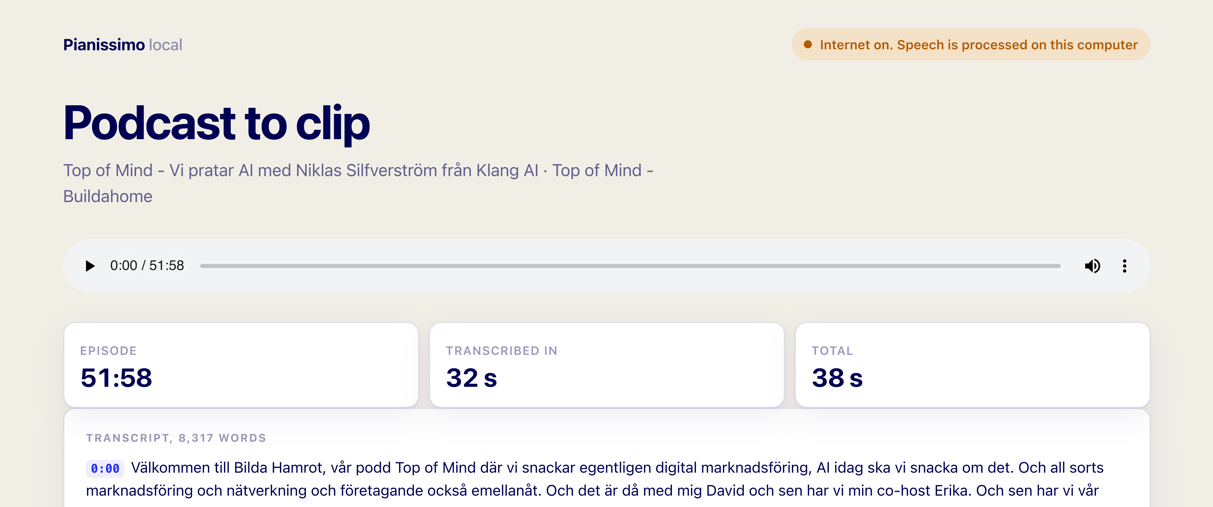
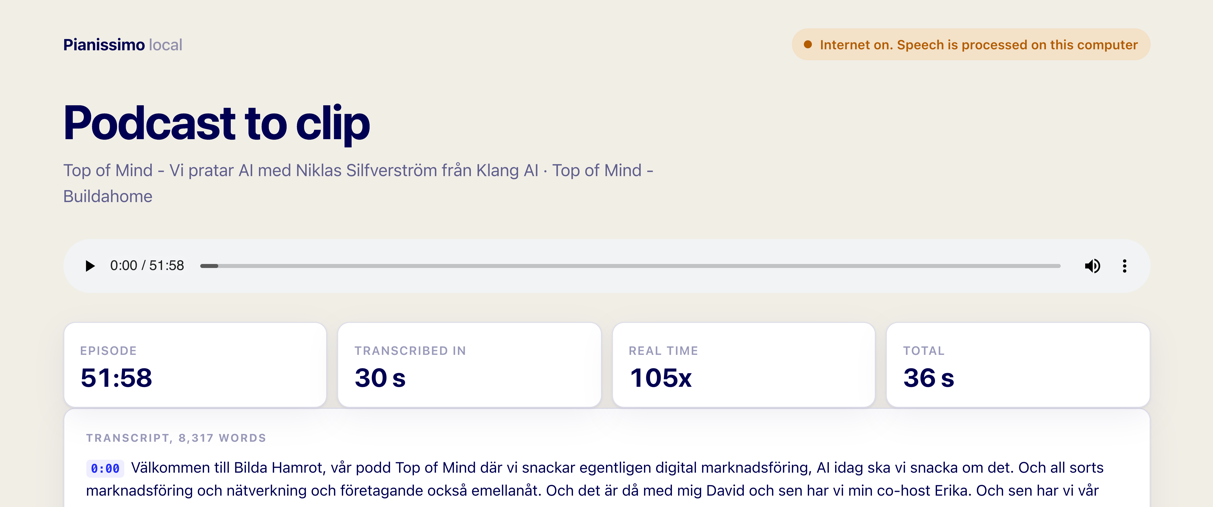
Podcast page: show the real-time factor
A fourth tile, audio seconds per second of transcription on this machine.
Measured again: 52 minutes in 30 s on an M5, 105x. Screenshot updated.

Claude-Session: https://claude.ai/code/session_016pkkLenoRqPW35WXKYwSes

diff --git a/examples/offline/static/podcast.html b/examples/offline/static/podcast.html
@@ -35,6 +35,7 @@
   <div class="stats" id="stats" hidden>
     <div class="stat card"><span id="s-audio-label">Episode</span><b id="s-audio">·</b></div>
     <div class="stat card"><span>Transcribed in</span><b id="s-asr">·</b></div>
+    <div class="stat card"><span>Real time</span><b id="s-rt">·</b></div>
     <div class="stat card"><span>Total</span><b id="s-total">·</b></div>
   </div>
 
@@ -182,7 +183,7 @@ async function run(source) {
   $('cols').hidden = false
   $('transcript').innerHTML = ''
   $('t-label').textContent = 'Transcript'
-  ;['s-asr', 's-total'].forEach((id) => { $(id).textContent = '·' })
+  ;['s-asr', 's-rt', 's-total'].forEach((id) => { $(id).textContent = '·' })
   $('s-audio').textContent = '…'
 
   const t0 = performance.now()
@@ -243,6 +244,8 @@ async function run(source) {
     } else if (ev.type === 'done') {
       $('s-asr').dataset.done = '1'
       $('s-asr').textContent = secs(ev.seconds)
+      // Audio seconds per second of transcription, on this machine.
+      $('s-rt').textContent = Math.round(ev.audioSeconds / ev.seconds) + 'x'
       $('t-label').textContent = `Transcript, ${ev.words.toLocaleString('en')} words`
       $('clips').hidden = false
       $('bar').hidden = true

diff --git a/examples/offline/static/style.css b/examples/offline/static/style.css
@@ -67,7 +67,7 @@ button.primary { background: var(--accent); color: #fff; border-color: var(--acc
 button:disabled { opacity: .5; cursor: default; }
 button:focus-visible, a:focus-visible { outline: 2px solid var(--accent); outline-offset: 2px; }
 
-.stats { display: grid; grid-template-columns: repeat(3, minmax(0, 1fr)); gap: 10px; margin-top: 22px; }
+.stats { display: grid; grid-template-columns: repeat(4, minmax(0, 1fr)); gap: 10px; margin-top: 22px; }
 @media (max-width: 720px) { .stats { grid-template-columns: repeat(2, minmax(0, 1fr)); } }
 .stat { padding: 14px 16px; }
 .stat b { display: block; font-size: 26px; letter-spacing: -.02em; font-variant-numeric: tabular-nums; line-height: 1.2; }

diff --git a/examples/offline/README.md b/examples/offline/README.md
@@ -4,11 +4,11 @@ Paste a podcast, get the transcript, and turn any sentence into a vertical clip 
 that light up word by word. Pianissimo does all of it, on this machine, behind a local web
 server. Download the model, and any episodes you want, before going offline.
 
-![The podcast page: a 52 minute episode transcribed in 32 s](podcast-page.png)
+![The podcast page: a 52 minute episode transcribed in 30 s, 105 times real time](podcast-page.png)
 
 ![A frame from a clip: the quote fills in word by word over a waveform](clip-frame.png)
 
-*Left: a 52 minute episode, transcribed in 32 s on a MacBook Pro M5, 38 s including the
+*Left: a 52 minute episode, transcribed in 30 s on a MacBook Pro M5, 36 s including the
 download. Right: a clip made from one sentence of a P1 Kultur report. The captions light up
 word by word as it is spoken.*
 
@@ -102,9 +102,9 @@ transcribed again every 0.4 s, so the text updates as you speak, and a segment c
 
 ## What we measured
 
-Each measured once, on a MacBook Pro with an M5 and 24 GB. A 52 minute episode: 32 s from
-the download finishing to the last piece on the page, just under 100 times real time. That
-includes decoding with ffmpeg.
+Each measured once, on a MacBook Pro with an M5 and 24 GB. A 52 minute episode: 30 s from
+the download finishing to the last piece on the page, 105 times real time. That includes
+decoding with ffmpeg. The page shows the factor for your own machine.
 
 A 3 s clip in about 4 s, from the request to the video on the page.
 
